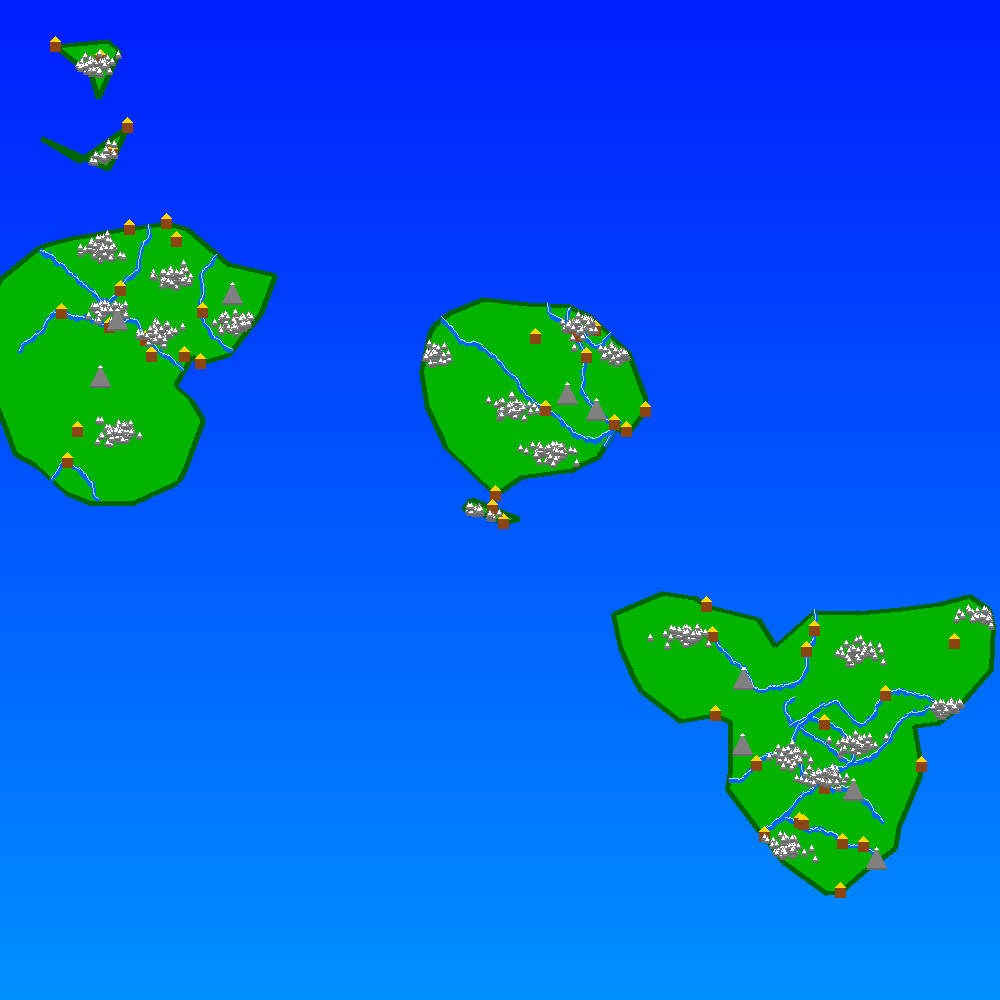
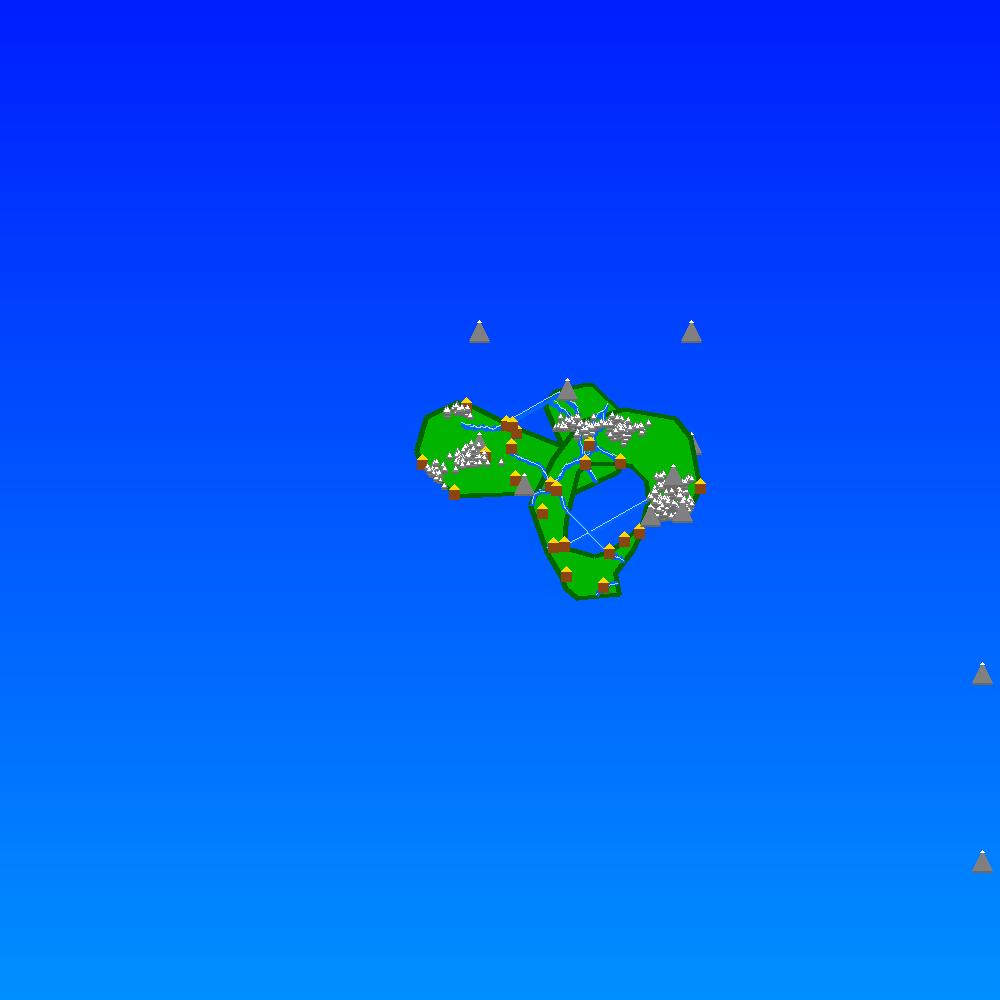
:Fixade evig loop

diff --git a/Classes/continent.py b/Classes/continent.py
@@ -60,7 +60,7 @@ class Continent():
         self.size_continent = size_continent
         self.vector_size = 500 * size_continent / mapsize_touple[0]
 
-        self.points_list = []  # Initialize points_list here
+        self.points_list = None  # Initialize points_list here
 
         self.riverscale = riverscale
         self.mountainscale = mountainscale
@@ -98,7 +98,7 @@ class Continent():
         # self.generate()
         while self.intersects_exists():
             self.fix_intersects()
-        self.points_list = self.get_point_list(False)
+        self.points_list = self.get_point_list()
         self.get_extreme_points()
 
     def generate_content(self):
@@ -294,9 +294,9 @@ class Continent():
     def get_start_node(self):
         return self.start_node
 
-    def get_point_list(self, done=True):
+    def get_point_list(self):
         ''' Returns the continent as a list of points, starting with start position and ending with start position'''
-        if not done:
+        if self.points_list is None:
             start_node = self.start_node
             list_nodes = [start_node.get_data()]
             working_node = start_node.get_next()
@@ -304,7 +304,8 @@ class Continent():
                 list_nodes.append(working_node.get_data())
                 working_node = working_node.get_next()
             list_nodes.append(working_node.get_data())
-            return list_nodes
+            self.points_list = list_nodes
+            return self.points_list
         else:
             return self.points_list
 
@@ -313,30 +314,16 @@ class Continent():
         if self.extreme_point is None:
             
             max_x, max_y, min_x, min_y = float('-inf'), float('-inf'), float('inf'), float('inf')
-            start_node = self.start_node
-            value_node = start_node.get_data()
-            if max_x < value_node[0]:
-                max_x = value_node[0]
-            elif min_x > value_node[0]:
-                min_x = value_node[0]
-            if max_y < value_node[1]:
-                max_y = value_node[1]
-            elif min_y > value_node[1]:
-                min_y = value_node[1]
-            working_node = start_node.get_next()
-            value_node = working_node.get_data()
-
-            while value_node is not self.start_pos:
-                if max_x < value_node[0]:
-                    max_x = value_node[0]
-                elif min_x > value_node[0]:
-                    min_x = value_node[0]
-                if max_y < value_node[1]:
-                    max_y = value_node[1]
-                elif min_y > value_node[1]:
-                    min_y = value_node[1]
-                working_node = working_node.get_next()
-                value_node = working_node.get_data()
+            for point in self.points_list:
+                if max_x < point[0]:
+                    max_x = point[0]
+                elif min_x > point[0]:
+                    min_x = point[0]
+                if max_y < point[1]:
+                    max_y = point[1]
+                elif min_y > point[1]:
+                    min_y = point[1]
+            
             self.extreme_point = [max_x, max_y, min_x, min_y]
         else:
             return self.extreme_point
@@ -344,7 +331,10 @@ class Continent():
     def move_continent(self, delta_x, delta_y):
 
         for i in range(0, len(self.points_list)):
-            self.points_list[i] = (self.points_list[i][0] + delta_x, self.points_list[i][1] + delta_x)
+            x, y = self.points_list[i]
+            self.points_list[i] = (x + delta_x, y + delta_y)
+
+        self.extreme_point = (self.extreme_point[0] + delta_x, self.extreme_point[1] + delta_y, self.extreme_point[2] + delta_x, self.extreme_point[3] + delta_y)
 
 
 

diff --git a/draw_PNG.py b/draw_PNG.py
@@ -5,6 +5,7 @@ from Classes.continent import Continent
 from Classes.continent import Node
 from Classes.map import Map
 import time
+import random
 from random import randint
 
 color_text = (255, 255, 255, 0)
@@ -31,6 +32,14 @@ def draw_map(map):
         mountains.extend(cont.get_mountains().get_mountain_list())
         villages.extend(cont.get_villages().get_cities_list())
         draw_continent(draw, cont)  # Draw continents after oceans
+        edges = cont.get_extreme_points()
+        draw_mountain(draw, (edges[0], edges[1]), 10, image = image)
+        draw_mountain(draw, (edges[2], edges[3]), 10, image = image)
+        draw_mountain(draw, (edges[0], edges[3]), 10, image = image)
+        draw_mountain(draw, (edges[2], edges[1]), 10, image = image)
+        image.show()
+
+        
 
     for river in rivers:
         draw_river(draw, river)
@@ -46,9 +55,9 @@ def draw_map(map):
     for mountain in mountains:
         mountain_pos = mountain
         draw_mountain(draw, mountain_pos, 10, image=image)
-
-    image.show()
     image.save('test_image.png')
+    image.show()
+    
 
 
 
@@ -102,10 +111,6 @@ def draw_city(draw, pos, population, name=None, image=None):
     if name is not None:
         draw_text(image, pos, name, 1000, size)  # Optional: Draw the name
 
-
-import random
-
-import random
 
 def draw_river(draw, river):
     # Define colors
@@ -224,7 +229,7 @@ def draw_mountain(draw, pos, size, name=None, image=None):
         (pos[0] - peak_size, pos[1] - size + peak_size),  # Adjusted bottom left vertex
         (pos[0] + peak_size, pos[1] - size + peak_size)   # Adjusted bottom right vertex
     ]
-    draw.polygon(peak_triangle, fill=peak_color)
+    draw.polygon(peak_triangle, fill = peak_color)
 
     if name is not None:
         draw_text(image, pos, name, 1000, size)  # Optional: Draw the name
@@ -250,7 +255,7 @@ def draw_oceans(draw, map_size):
 
 
 def main():
-    karta = Map(6, 50, 50, 50, 50, 50, 50, village_scale=40, mapsize = (1000, 1000))
+    karta = Map(2, 200, 50, 50, 50, 50, 50, village_scale=40, mapsize = (1000, 1000))
     draw_map(karta)
 
 main()

diff --git a/Classes/map.py b/Classes/map.py
@@ -31,12 +31,12 @@ class Map:
             size_continent = 110
             continent = Continent(self.mapsize, size_continent,riverscale=self.rain_scale,mountainscale=self.mountain_scale,villagescale=self.village_scale)
             continent.generate()
-            condition = True
-            #condition = continent.get_size() > error_range*2 + error_range or continent.get_size() < error_range*2 - error_range
-            while condition:
+            condition = False
+            
+            while not condition:
                 continent = Continent(self.mapsize, size_continent, mountainscale=self.mountain_scale, riverscale=self.river_scale, villagescale=self.village_scale)
                 continent.generate()
-                condition = False
+                condition = continent.get_size() > error_range*2 + error_range or continent.get_size() < error_range*2 - error_range
             could_place = False
             while not could_place:
                 could_place, move_x, move_y = self.place(continent)
@@ -49,7 +49,9 @@ class Map:
     
     def place(self, continent):
         edges = continent.get_extreme_points()
-        move_x, move_y = random.uniform(-1,1)*500, random.uniform(-1,1)*500
+        
+        deviation = self.mapsize[0]/20
+        move_x, move_y = random.gauss(0, deviation), random.gauss(0, deviation)
         edges[0], edges[1], edges[2], edges[3] = edges[0] + move_x, edges[1] + move_y, edges[2] + move_x, edges[3] + move_y
         for cont in self.continent_list:
             check_edges = cont.get_extreme_points()
@@ -57,6 +59,7 @@ class Map:
                 return False, None, None
             elif check_edges[1] > edges[1] > check_edges[3] or check_edges[1] > edges[3] > check_edges[3]:
                 return False, None, None
+
         return True, move_x, move_y
 
 

diff --git a/Classes/village.py b/Classes/village.py
@@ -70,9 +70,11 @@ class Village:
     def generate_coast_village(self):
         """Generates random villages near the coast."""
         for _ in range(self.village_coast_count):
-            while True:
+            iter = 0
+            max_iter = 1000
+            while True and iter < max_iter:
                 coast = self.continent[random.randint(0, self.count_continent_vectors - 1)]
-
+                iter += 1
                 # Check if this village is too close to others
                 if not self.is_too_close(coast):
                     self.village_locations.append(coast)
@@ -81,12 +83,14 @@ class Village:
     def generate_random_villages(self):
         """Generates random villages within the continent boundaries."""
         for _ in range(self.village_random_location_count):
-            while True:
+            iter = 0
+            max_iter = 1000
+            while True and iter < max_iter:
                 # Generate random coordinates
                 x = random.uniform(min(x for x, _ in self.continent), max(x for x, _ in self.continent))
                 y = random.uniform(min(y for _, y in self.continent), max(y for _, y in self.continent))
                 village_coords = (x, y)
-
+                iter += 1
                 # Check if the random coordinates are inside the continent
                 if self.is_point_inside_continent(village_coords):
                     self.village_locations.append(village_coords)
